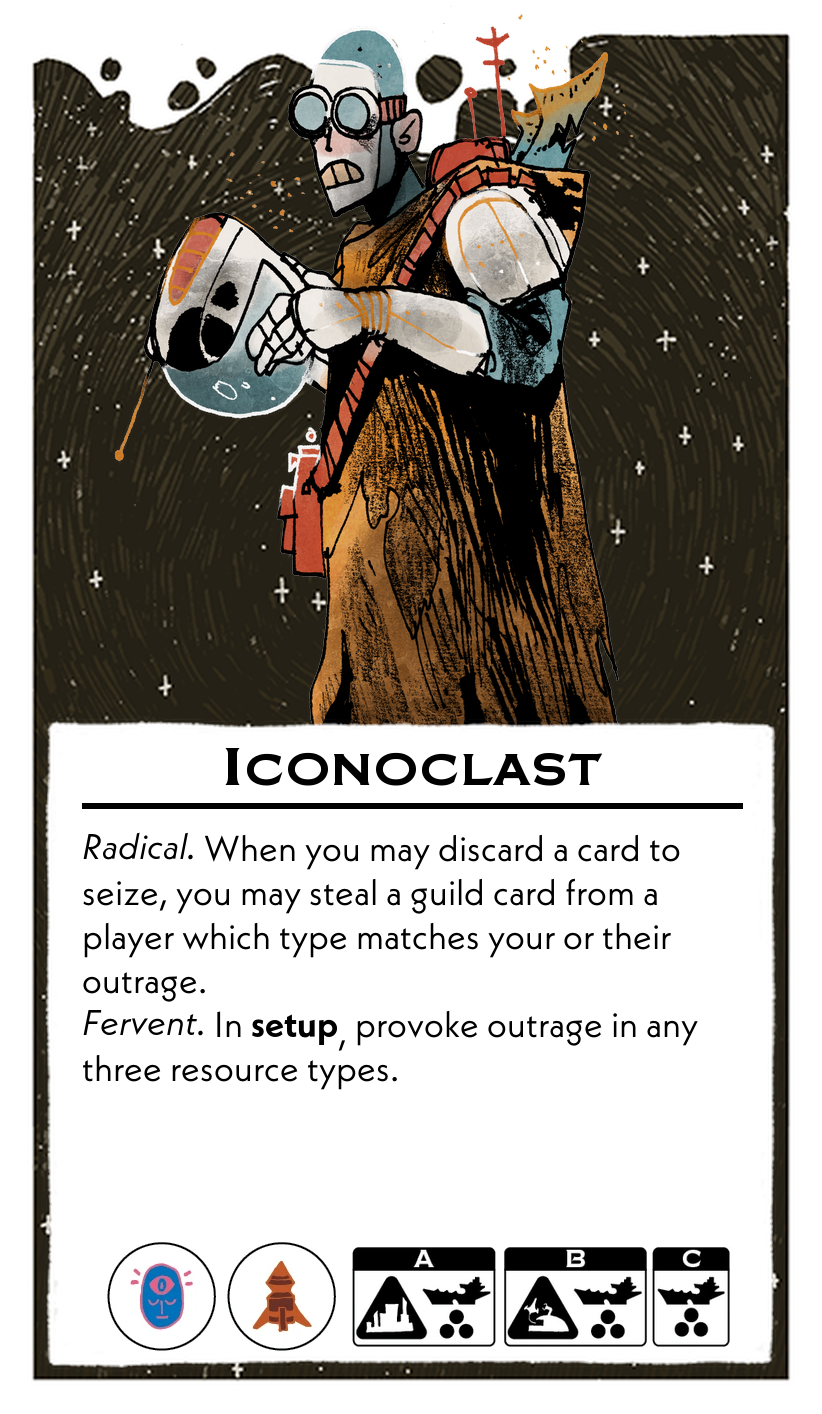
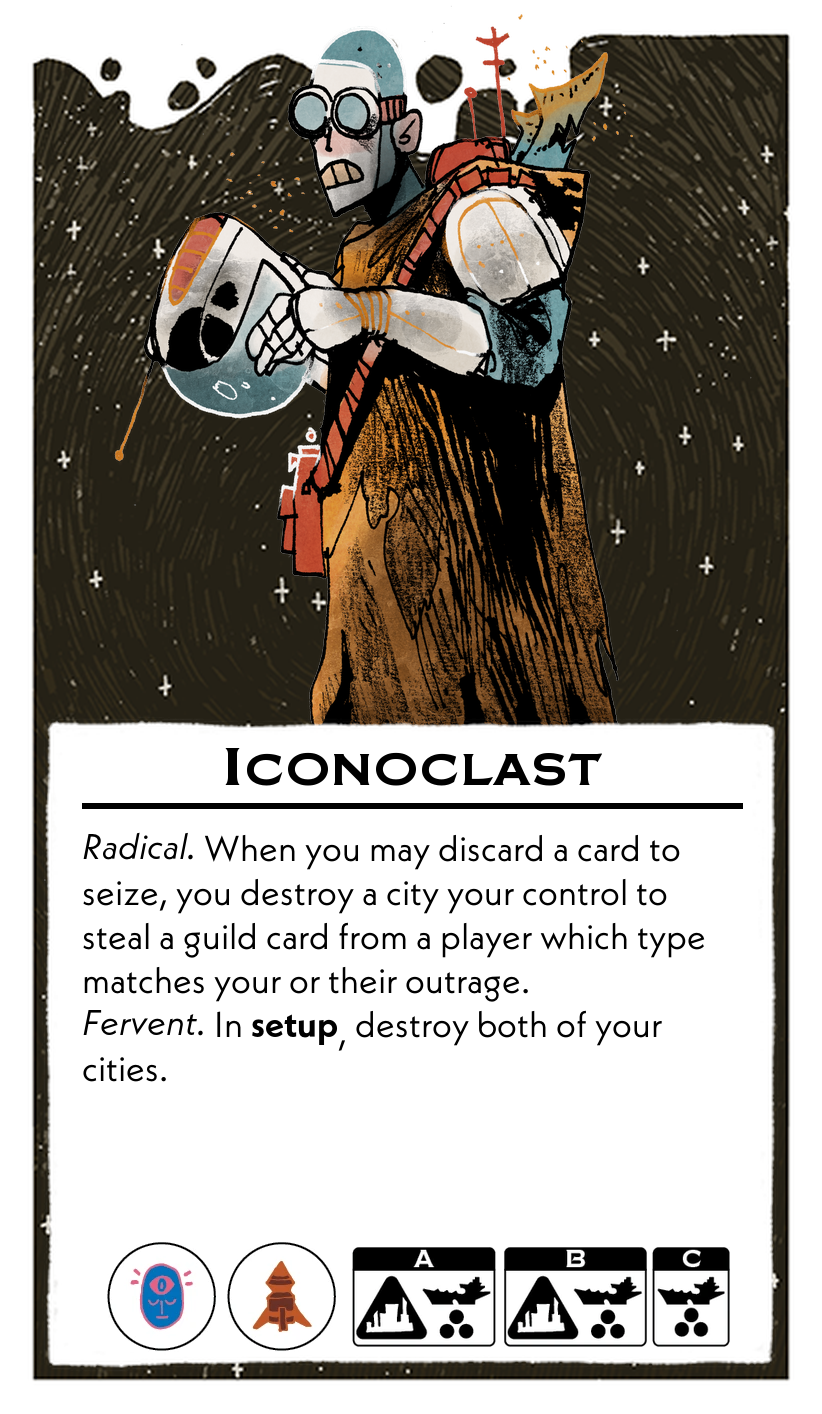
ico

Changed region(s): [[0.0912, 0.6223, 0.8516, 0.7779], [0.6387, 0.9024, 0.6995, 0.9646]]

diff --git a/scripts/leadersFormatted.py b/scripts/leadersFormatted.py
@@ -629,13 +629,13 @@ leaders = [
     {
         "name": "Iconoclast",
         "abilities": (
-            "*Radical.* When you may discard a card to seize, you may steal a guild card from a player which type matches your or their outrage.\n"
-            "*Fervent.* In **setup**, provoke outrage in any three resource types."
+            "*Radical.* When you may discard a card to seize, you destroy a city your control to steal a guild card from a player which type matches your or their outrage.\n"
+            "*Fervent.* In **setup**, destroy both of your cities."
         ),
         "resources": ["Psionic", "Weapon"],
         "setup": {
             "A": {"ships": 3, "building": "city"},
-            "B": {"ships": 3, "building": "starport"},
+            "B": {"ships": 3, "building": "city"},
             "C": {"ships": 3, "building": "None"}
         },
         "body_font_size": 18,
